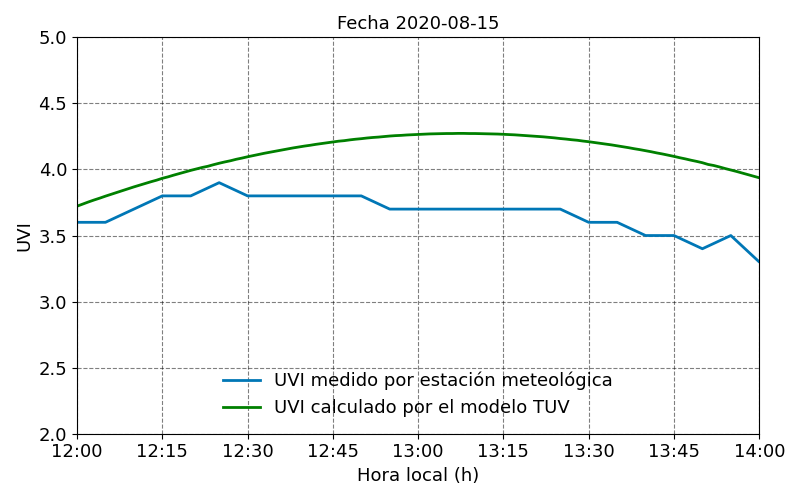
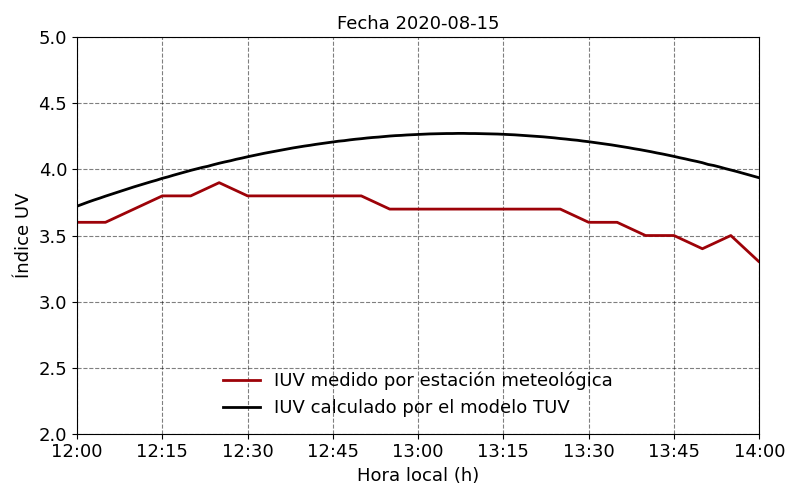
Change colors and labels

diff --git a/Scripts/Graphics_daily_data.py b/Scripts/Graphics_daily_data.py
@@ -8,17 +8,17 @@ def plot_daily_data(data_davis: pd.DataFrame, data_tuv: pd.DataFrame, parameters
     """
     plt.subplots(figsize=(8, 5))
     plt.plot(data_davis.index, data_davis["UV"],
-             label="UVI medido por estación meteológica",
-             color="#0077b6",
+             label="IUV medido por estación meteológica",
+             color="#9d0208",
              lw=2)
     plt.plot(data_tuv.index, data_tuv["UVI"],
-             label="UVI calculado por el modelo TUV",
-             color="#008000",
+             label="IUV calculado por el modelo TUV",
+             color="#000000",
              lw=2)
     ticks, hour_tick = obtain_tick(parameters["date initial"])
     plt.xlabel("Hora local (h)",
                fontsize=parameters["fontsize"])
-    plt.ylabel("UVI",
+    plt.ylabel("Índice UV",
                fontsize=parameters["fontsize"])
     plt.xticks(ticks, hour_tick,
                fontsize=parameters["fontsize"])
